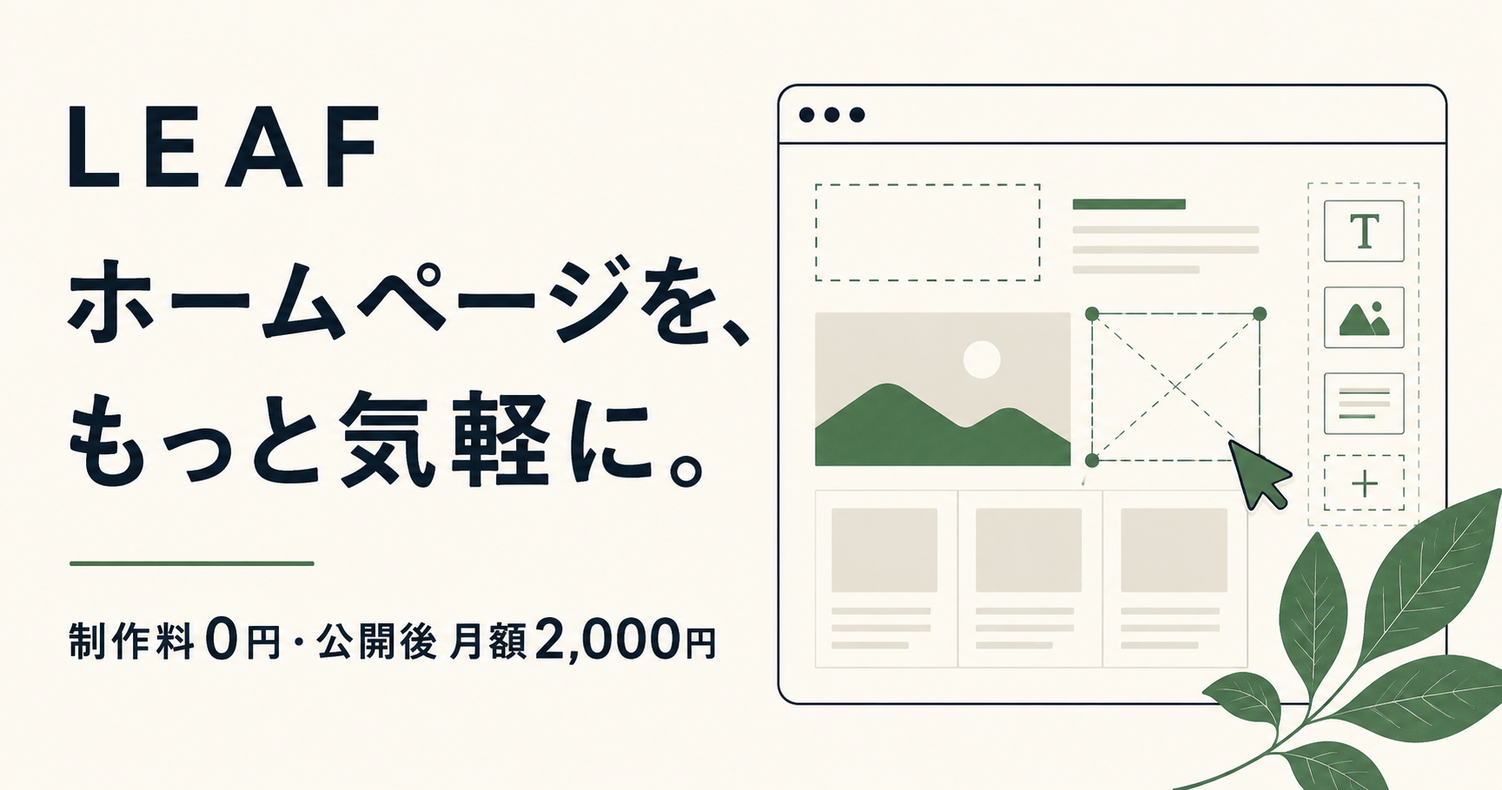
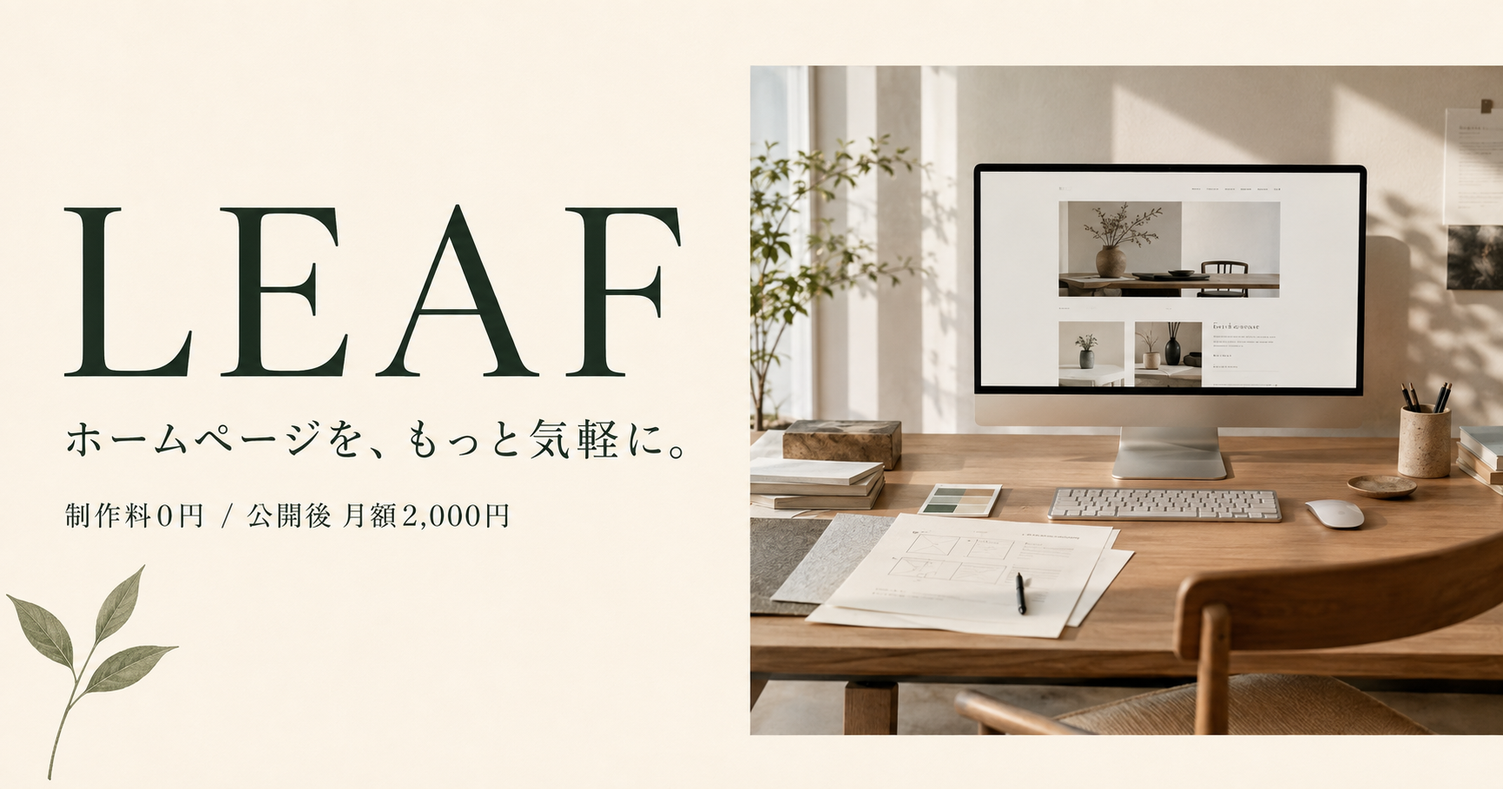
Redesign LEAF and add interactive sample pages

diff --git a/app/globals.css b/app/globals.css
@@ -1,2 +1,2 @@
 @import 'tailwindcss';
-:root{--ink:#101a25;--green:#42d06f;--paper:#f7f7f2;--line:#d9ddd7;--muted:#69727a}*{box-sizing:border-box}html{scroll-behavior:smooth}body{margin:0;background:var(--paper);color:var(--ink);font-family:"Yu Gothic","Hiragino Kaku Gothic ProN",system-ui,sans-serif}a{color:inherit;text-decoration:none}button{font:inherit}main{overflow:hidden}.topbar{position:fixed;z-index:40;inset:0 0 auto;height:72px;display:flex;align-items:center;justify-content:space-between;padding:0 4vw;background:rgba(247,247,242,.92);border-bottom:1px solid var(--line);backdrop-filter:blur(12px)}.logo{font-weight:900;font-size:22px;letter-spacing:-.06em;display:flex;align-items:center;gap:4px}.logo span{width:9px;height:14px;border-radius:9px 1px;background:var(--green);transform:rotate(30deg);display:block}.topbar nav{display:flex;gap:34px;font-size:12px;font-weight:700}.top-cta{background:var(--ink);color:white;padding:13px 18px;font-size:12px}.hero{min-height:1100px;padding:125px 4vw 80px;background:radial-gradient(circle at 78% 20%,rgba(66,208,111,.09),transparent 24%),var(--paper)}.eyebrow{display:flex;justify-content:space-between;border-bottom:1px solid var(--line);padding-bottom:12px;font:10px ui-monospace,monospace;letter-spacing:.12em}.hero-copy{display:flex;justify-content:space-between;align-items:flex-end;margin:68px 0 50px}.hero-copy p{font-size:13px}.hero h1,.quality h2,.reason h2,.sitemap-copy h2,.responsive h2,.after h2,.flow h2,.faq h2,.desk-photo h2{font-size:clamp(50px,7vw,112px);line-height:1.04;letter-spacing:-.07em;margin:0;font-weight:650}.builder-window,.portfolio-browser{border:1px solid #aeb5ae;background:#fff;box-shadow:0 30px 90px rgba(16,26,37,.13)}.window-bar{height:42px;display:grid;grid-template-columns:1fr 2fr 1fr;align-items:center;border-bottom:1px solid var(--line);font:9px ui-monospace,monospace;color:var(--muted);padding:0 15px}.dots{display:flex;gap:6px}.dots i{width:7px;height:7px;border:1px solid #89918a;border-radius:50%}.address{text-align:center}.live-dot{text-align:right;color:#1e7b3c}.live-dot:before{content:"";display:inline-block;width:6px;height:6px;background:var(--green);border-radius:50%;margin-right:7px}.builder-body{display:grid;grid-template-columns:150px 1fr 190px;min-height:570px}.builder-body aside,.inspector{padding:22px;border-right:1px solid var(--line);font:9px ui-monospace,monospace}.builder-body aside b,.inspector>b{display:block;margin-bottom:22px;letter-spacing:.15em}.builder-body aside button{display:block;width:100%;text-align:left;border:0;border-top:1px solid var(--line);background:none;padding:15px 0;font:9px ui-monospace,monospace;color:#7a837c;cursor:pointer}.builder-body aside button span{display:inline-block;width:26px}.builder-body aside button.active{color:var(--ink);font-weight:800}.builder-body aside button.active:after{content:"";float:right;width:7px;height:7px;background:var(--green);border-radius:50%}.canvas{position:relative;background:#e7eae4;padding:54px 5vw;overflow:hidden}.canvas-label{position:absolute;top:18px;left:20px;font:8px ui-monospace,monospace;color:#6d756e}.mini-site{height:100%;background:#fff;border:1px solid #adb4ad;overflow:hidden;transition:.5s}.mini-nav{height:12%;padding:3%;display:flex;align-items:center;gap:9%;border-bottom:1px solid #dce0db}.mini-nav b{margin-right:auto;font:700 10px ui-monospace,monospace}.mini-nav span{width:10%;height:3px;background:#303940}.mini-hero{height:53%;display:grid;grid-template-columns:1fr 1fr;padding:8%;gap:7%;align-items:center}.mini-copy i{display:block;background:#18232d;height:7px;margin:9px 0}.mini-copy i:first-child{height:20px}.mini-photo{height:100%;background:linear-gradient(145deg,#9cae92,#e5e0cd)}.mini-grid{height:25%;display:grid;grid-template-columns:repeat(3,1fr);gap:3%;padding:2% 8%}.mini-grid i{border:1px solid #c3c9c3;background:#f4f4ef}.stage-0 .mini-site,.stage-0 .mini-photo{}.stage-0 *{background-color:transparent!important;background-image:none!important;border-style:dashed!important}.stage-0 .mini-copy i,.stage-0 .mini-nav span{border:1px dashed #7f8a81}.stage-1 .mini-copy i{opacity:0}.stage-1 .mini-nav span{opacity:.25}.phone{position:absolute;right:3%;bottom:5%;width:18%;height:52%;padding:5px;background:#111c26;border-radius:16px;box-shadow:0 16px 40px #0e17245c}.phone .mini-site{border-radius:11px}.phone .mini-hero{grid-template-columns:1fr}.phone .mini-photo{display:none}.inspector{border-left:1px solid var(--line);border-right:0}.inspector dl{margin:0}.inspector dt{margin-top:22px;color:#8a918c}.inspector dd{margin:5px 0;font-weight:700}.green{color:#16813c}.scroll-cue{font:9px ui-monospace,monospace;letter-spacing:.15em;margin:34px auto 0;width:max-content}.scroll-cue span{display:inline-block;width:40px;border-top:1px solid;margin:0 10px 3px 0}.section-num{font:10px ui-monospace,monospace;letter-spacing:.13em;color:#5b655f}.quality{padding:150px 8vw;display:grid;grid-template-columns:1fr 2fr 1fr;gap:4vw;align-items:end}.quality h2{font-size:clamp(44px,6.4vw,96px)}.quality>p:last-child{line-height:2;font-size:14px}.works{display:grid;grid-template-columns:58% 42%;border-top:1px solid var(--line)}.works-preview{height:100vh;position:sticky;top:0;padding:10vh 4vw;background:#e9ece5;align-self:start}.portfolio-browser{height:68vh}.portfolio-screen{height:calc(100% - 42px);padding:7%;display:grid;grid-template-columns:1fr 1.2fr;align-items:center;transition:.5s}.work-title small{display:block;margin-bottom:16px}.work-title strong{font:700 clamp(38px,6vw,88px) Georgia,serif}.work-image{height:90%;display:flex;align-items:end;justify-content:end;padding:20px;background:#34413a}.work-image span{font:11px ui-monospace;color:white}.sand{background:#eee5d7}.sand .work-image{background:#8f6e56}.stone{background:#dad9d5}.stone .work-image{background:#5d625f}.sky{background:#dfeff0}.sky .work-image{background:#608e92}.rose{background:#ede1e0}.rose .work-image{background:#9a7371}.coffee{background:#e2d2bd}.coffee .work-image{background:#513a2b}.portfolio-note{font-size:10px;line-height:1.7;color:#707870;margin-top:20px}.work-list{padding:110px 4vw}.work-list h2{font-size:clamp(35px,4.5vw,65px);letter-spacing:-.06em;margin:30px 0 120px}.work-list article{min-height:48vh;border-top:1px solid var(--line);padding:40px 0;display:grid;grid-template-columns:50px 1fr;align-content:center}.work-list article>span,.work-list em{font:9px ui-monospace,monospace}.work-list h3{font:600 clamp(42px,7vw,90px) Georgia,serif;margin:0}.work-list p{font-size:13px}.work-list em{font-style:normal}.price{background:var(--ink);color:white;padding:140px 6vw}.price .section-num{color:#98a39c}.price-head{display:grid;grid-template-columns:1.3fr 1fr;gap:8vw;align-items:end}.price-head h2{font-size:clamp(48px,7.5vw,112px);line-height:1.05;letter-spacing:-.07em;margin:30px 0 80px}.price-change{display:flex;flex-direction:column;padding-bottom:80px}.price-change span{font-size:12px;color:#9fa9a2}.price-change del{font-size:22px;color:#87918a;margin:14px 0}.price-change strong{font-size:90px;line-height:.8;color:var(--green)}.price-grid{display:grid;grid-template-columns:1fr 1fr 1fr;border-top:1px solid #42505b}.price-grid>div{padding:40px 3vw;border-right:1px solid #42505b;min-height:310px}.price-grid small{font:9px ui-monospace}.price-grid b{display:block;font-size:15px;margin:25px 0}.price-grid strong{display:block;font-size:82px;letter-spacing:-.06em}.price-grid em{font-size:14px;font-style:normal}.price-grid p{font-size:12px;color:#aeb8b1}.included ul{padding:0;list-style:none}.included li{border-top:1px solid #42505b;padding:12px 0;font-size:13px}.reason{padding:170px 7vw;display:grid;grid-template-columns:1.2fr 1fr;gap:10vw}.reason h2{font-size:clamp(45px,6.8vw,98px);margin-top:35px}.reason-copy{padding-top:130px;font-size:15px;line-height:2}.reason-copy .lead{font-size:30px;line-height:1.6;margin-top:100px}.sitemap-section{padding:140px 6vw;background:#e8ebe4;display:grid;grid-template-columns:1fr 1.4fr;gap:8vw}.sitemap-copy h2{font-size:clamp(40px,5vw,70px);margin:35px 0}.sitemap-copy>p:last-child{font-size:13px;line-height:1.9;max-width:420px}.page-count{display:flex;align-items:center;gap:22px;margin:70px 0}.page-count strong{font-size:86px;letter-spacing:-.08em}.page-count span{font:10px/1.7 ui-monospace}.sitemap{display:flex;flex-direction:column;justify-content:center;align-items:center}.root-node,.branches div{border:1px solid #93a098;background:var(--paper);padding:15px 30px;font:11px ui-monospace;text-align:center}.root-node{position:relative;background:var(--ink);color:white}.root-node:after{content:"";position:absolute;height:48px;border-left:1px solid #93a098;left:50%;top:100%}.branches{margin-top:48px;width:100%;display:grid;grid-template-columns:repeat(3,1fr);gap:20px;position:relative}.branches:before{content:"";position:absolute;top:-1px;left:10%;right:10%;border-top:1px solid #93a098}.branches div{position:relative}.branches div:before{content:"";height:20px;border-left:1px solid #93a098;position:absolute;left:50%;bottom:100%}.line-section{padding:150px 6vw}.line-section>h2{font-size:clamp(50px,7vw,100px);letter-spacing:-.07em;margin:35px 0 100px}.production-line article{display:grid;grid-template-columns:1.2fr 1fr;border-top:1px solid var(--line);padding:35px 0;min-height:260px;gap:7vw}.line-visual{background:#e7eae4;border:1px solid #ccd2cc;display:flex;align-items:center;justify-content:center;overflow:hidden}.line-visual span{font:12px ui-monospace;letter-spacing:.1em;animation:pulse 2s infinite}.line-copy{align-self:center}.line-copy small{font:10px ui-monospace;color:#727d76}.line-copy h3{font-size:32px;margin:12px 0}.line-copy p{font-size:13px;line-height:1.9;max-width:480px}.responsive{background:#111b25;color:#fff;min-height:900px;padding:130px 6vw;display:grid;grid-template-columns:1fr 1.4fr;gap:7vw;align-items:center}.responsive .section-num{color:#89938d}.responsive h2{font-size:clamp(45px,5.8vw,80px);margin:35px 0}.responsive-copy>p:last-child{font-size:13px;line-height:2;color:#acb5af}.device-stage{position:relative;height:600px}.desktop-device,.tablet-device,.mobile-device{position:absolute;background:#10171e;padding:8px;border:1px solid #52605a;box-shadow:0 25px 55px #0008}.desktop-device{width:85%;height:62%;top:10%;left:0}.tablet-device{width:42%;height:58%;right:5%;bottom:5%;z-index:2}.mobile-device{width:23%;height:48%;left:12%;bottom:0;z-index:3;border-radius:14px}.device-stage .mini-site{border:0}.after{text-align:center;padding:160px 6vw}.published-mark{font:11px ui-monospace;letter-spacing:.13em}.published-mark span{display:inline-flex;align-items:center;justify-content:center;background:var(--green);width:30px;height:30px;border-radius:50%;margin-right:12px}.after h2{margin:50px 0 120px}.timeline{display:grid;grid-template-columns:repeat(4,1fr);position:relative}.timeline:before{content:"";position:absolute;top:37px;left:10%;right:10%;border-top:1px solid #909a93}.timeline div{display:flex;flex-direction:column;align-items:center;gap:22px}.timeline small{font:10px ui-monospace}.timeline i{width:12px;height:12px;background:var(--paper);border:2px solid var(--green);border-radius:50%;z-index:1}.timeline strong{font-size:14px}.after>p{font-size:11px;color:#6f7972;margin-top:80px}.flow{padding:140px 6vw;background:#e9ece5}.flow h2{margin:35px 0 90px}.flow-grid{display:grid;grid-template-columns:repeat(6,1fr);border-top:1px solid #9ca69f}.flow-grid div{min-height:140px;padding:20px;border-right:1px solid #9ca69f;display:flex;flex-direction:column;justify-content:space-between}.flow-grid span{font:9px ui-monospace}.flow-grid b{font-size:13px}.live-message{text-align:center;font:clamp(28px,5vw,70px) ui-monospace;letter-spacing:-.05em;margin:130px 0 20px}.live-message span{display:inline-block;width:13px;height:13px;border-radius:50%;background:var(--green);margin-left:20px}.campaign{background:var(--ink);color:white;margin:0 3vw;padding:0}.campaign-label{padding:16px 25px;border-bottom:1px solid #4a5560;font:10px ui-monospace;color:var(--green)}.campaign-main{padding:70px 6vw;display:grid;grid-template-columns:1fr 1fr;gap:8vw}.campaign-main p{font-size:13px}.campaign-main>div>strong{display:block;font-size:70px}.campaign-main>div>strong span{font-size:150px;color:var(--green);line-height:.8}.campaign-main small{color:#9aa59f}.campaign-main ul{list-style:none;margin:0;padding:0}.campaign-main li{display:flex;justify-content:space-between;border-top:1px solid #4a5560;padding:18px 0;font-size:13px}.faq{padding:160px 6vw;display:grid;grid-template-columns:.8fr 1.2fr;gap:10vw}.faq h2{font-size:clamp(45px,5vw,76px);margin:35px 0}.faq>div>p:last-child{font-size:13px;line-height:2}.faq details{border-top:1px solid var(--line)}.faq summary{list-style:none;display:grid;grid-template-columns:45px 1fr 30px;align-items:center;padding:23px 0;font-size:14px;cursor:pointer}.faq summary::-webkit-details-marker{display:none}.faq summary span{font:9px ui-monospace}.faq summary b{text-align:right}.faq details[open] summary b{transform:rotate(45deg)}.faq details p{font-size:13px;line-height:1.9;padding:0 30px 25px 45px;color:#59635d}.desk-photo{margin:0 4vw 140px;height:75vh;position:relative;color:white}.desk-photo img{width:100%;height:100%;object-fit:cover;filter:brightness(.7)}.desk-photo>div{position:absolute;left:6%;bottom:10%}.desk-photo p{font:10px ui-monospace;letter-spacing:.15em}.desk-photo h2{font-size:clamp(50px,6vw,90px)}.final-cta{background:var(--green);padding:140px 7vw;text-align:center}.final-cta>p{font:10px ui-monospace;letter-spacing:.15em}.final-cta h2{font-size:clamp(55px,9vw,140px);line-height:.95;letter-spacing:-.08em;margin:50px 0}.cta-summary{display:flex;justify-content:center;gap:45px;margin-bottom:50px;font-size:13px}.final-cta>a{display:flex;margin:auto;max-width:560px;justify-content:space-between;background:var(--ink);color:white;padding:25px 30px;font-size:16px}.final-cta>small{display:block;margin-top:20px}footer{height:180px;padding:50px 4vw;display:grid;grid-template-columns:1fr 1fr 1fr;align-items:center}footer p{text-align:center;font-size:12px}footer small{text-align:right;font:9px ui-monospace}@keyframes pulse{50%{opacity:.35;transform:translateX(8px)}}@media(max-width:800px){.topbar nav{display:none}.top-cta{padding:11px}.hero{padding:105px 18px 60px;min-height:930px}.hero-copy{display:block;margin:55px 0 35px}.hero-copy p{margin-bottom:25px}.hero h1{font-size:48px}.builder-body{grid-template-columns:1fr;min-height:520px}.builder-body aside{display:flex;overflow:auto;border:0;border-bottom:1px solid var(--line);padding:8px}.builder-body aside>b{display:none}.builder-body aside button{min-width:95px;border:0;padding:10px}.inspector{display:none}.canvas{padding:65px 20px 25px}.phone{width:24%}.quality{padding:100px 20px;display:block}.quality h2{margin:35px 0}.works{display:block}.works-preview{height:63vh;top:71px;padding:30px 18px;z-index:2}.portfolio-browser{height:48vh}.portfolio-screen{grid-template-columns:1fr;padding:8%}.work-image{height:130px}.work-list{padding:90px 20px}.work-list h2{margin-bottom:70px}.work-list article{min-height:45vh}.price{padding:100px 20px}.price-head,.price-grid{display:block}.price-head h2{margin-bottom:60px}.price-change{padding-bottom:50px}.price-grid>div{border-right:0;border-bottom:1px solid #42505b}.reason,.sitemap-section,.responsive,.faq{display:block;padding:100px 20px}.reason-copy{padding-top:70px}.sitemap{margin-top:90px}.branches{grid-template-columns:repeat(2,1fr);gap:14px}.line-section{padding:100px 20px}.production-line article{grid-template-columns:1fr;padding:20px 0;gap:25px}.line-visual{min-height:180px}.responsive{min-height:1000px}.device-stage{height:500px;margin-top:60px}.after{padding:110px 20px}.timeline{grid-template-columns:1fr}.timeline:before{top:0;bottom:0;left:50%;right:auto;border-top:0;border-left:1px solid #909a93}.timeline div{background:var(--paper);padding:20px}.flow{padding:100px 20px}.flow-grid{grid-template-columns:repeat(2,1fr)}.campaign{margin:0}.campaign-main{grid-template-columns:1fr;padding:55px 20px}.faq>div+div{margin-top:70px}.desk-photo{margin:0 20px 100px;height:70vh}.final-cta{padding:110px 20px}.cta-summary{flex-direction:column;gap:10px}.final-cta h2{font-size:58px}footer{grid-template-columns:1fr;height:auto;gap:25px;text-align:center}footer p,footer small{text-align:center}}@media(prefers-reduced-motion:reduce){html{scroll-behavior:auto}*,*:before,*:after{animation:none!important;transition:none!important}}
+:root{--ink:#122018;--paper:#f5f3ed;--green:#55b76c;--line:#cfd2c8;--cream:#e9e4d8}*{box-sizing:border-box}html{scroll-behavior:smooth}body{margin:0;background:var(--paper);color:var(--ink);font-family:"Yu Gothic","Hiragino Kaku Gothic ProN",system-ui,sans-serif}a{color:inherit;text-decoration:none}img{display:block;width:100%}.new-site{overflow:hidden}.page-progress{position:fixed;z-index:100;top:0;left:0;height:3px;background:var(--green)}.new-header{position:fixed;z-index:50;top:0;left:0;right:0;height:80px;display:grid;grid-template-columns:1fr auto 1fr;align-items:center;padding:0 3.5vw;background:rgba(245,243,237,.9);backdrop-filter:blur(16px);border-bottom:1px solid rgba(18,32,24,.12)}.brand img{width:110px}.new-header nav{display:flex;gap:34px;font-size:12px}.header-cta{justify-self:end;border-bottom:1px solid;padding-bottom:5px;font-size:12px}.new-hero{min-height:980px;padding:120px 3.5vw 0;position:relative}.hero-image{height:57vh;margin-left:34%;position:relative;overflow:hidden}.hero-image img{height:100%;object-fit:cover;animation:heroFloat 14s ease-in-out infinite alternate}.image-index{position:absolute;right:15px;bottom:12px;background:var(--paper);padding:7px 10px;font:9px ui-monospace,monospace}.hero-main{position:absolute;left:5.5vw;top:190px;z-index:2}.kicker{font-size:13px;margin:0 0 60px 5px}.hero-main h1{font-size:clamp(70px,9vw,140px);line-height:.92;letter-spacing:-.085em;margin:0;font-weight:500}.hero-main h1 i{font-style:normal;color:var(--green)}.hero-bottom{display:flex;align-items:end;gap:13vw;margin:70px 0 0 28vw}.hero-bottom p{font-size:13px;line-height:2}.hero-bottom a{display:flex;flex-direction:column;gap:12px;font-size:11px}.hero-bottom a span{border-bottom:1px solid;padding-bottom:5px}.hero-ribbon{position:absolute;bottom:0;left:0;right:0;height:64px;background:var(--ink);color:#fff;display:flex;justify-content:space-around;align-items:center;font:10px ui-monospace;letter-spacing:.18em}.hero-ribbon span:before{content:"✦";color:var(--green);margin-right:5vw}.intro{padding:180px 6vw 200px;display:grid;grid-template-columns:80px 1fr 2fr;gap:5vw;align-items:start}.sec-no{font:10px ui-monospace;letter-spacing:.15em}.intro>p{font-size:14px;line-height:2}.intro h2,.sample-copy h2,.statement h2,.service h2,.why h2,.new-faq h2{font-size:clamp(45px,6vw,92px);line-height:1.05;letter-spacing:-.07em;margin:0;font-weight:500}.reveal{opacity:0;transform:translateY(50px);transition:opacity 1s,transform 1s}.reveal.seen{opacity:1;transform:none}.sample-showcase{display:grid;grid-template-columns:62% 38%;background:#dfe4dc}.sample-sticky{height:100vh;position:sticky;top:0;padding:9vh 3vw}.browser-frame{height:82vh;background:#fff;border:1px solid #8e9a90;box-shadow:0 30px 70px #1f2e2425}.browser-top{height:42px;display:flex;align-items:center;gap:6px;padding:0 12px;border-bottom:1px solid var(--line);font:9px ui-monospace}.browser-top i{width:7px;height:7px;border:1px solid;border-radius:50%}.browser-top span{margin:auto}.browser-top a{border-bottom:1px solid}.browser-frame iframe{border:0;width:100%;height:calc(100% - 42px);background:white}.sample-copy{padding:120px 3vw 180px}.eyelabel{font:10px ui-monospace;letter-spacing:.14em}.sample-copy h2{font-size:clamp(40px,4.7vw,68px);margin:35px 0}.sample-lead{font-size:13px;line-height:2;margin-bottom:100px}.sample-copy button{width:100%;min-height:260px;border:0;border-top:1px solid #aeb8af;background:none;text-align:left;padding:30px 0;display:grid;grid-template-columns:50px 1fr auto;color:inherit;cursor:pointer;transition:.35s}.sample-copy button:hover,.sample-copy button.active{padding-left:20px;background:rgba(255,255,255,.35)}.sample-copy button>span,.sample-copy button>b,.sample-copy button small{font:9px ui-monospace}.sample-copy button strong{display:block;font:500 clamp(44px,5vw,70px) Georgia,serif;margin:20px 0}.sample-copy button p{font-size:12px}.statement{min-height:900px;position:relative;margin:160px 5vw}.statement>img{width:62%;height:760px;object-fit:cover}.statement>div{position:absolute;right:0;bottom:0;width:48%;background:var(--paper);padding:70px 4vw}.statement h2{font-size:clamp(42px,5.2vw,76px);margin:30px 0}.statement p{font-size:14px;line-height:2}.service{padding:150px 6vw;background:#16231b;color:#fff}.service-head{display:grid;grid-template-columns:90px 1fr;margin-bottom:110px}.service-list{margin-left:28%}.service-list article{display:grid;grid-template-columns:60px 1fr 1.2fr;border-top:1px solid #4d594f;padding:35px 0;align-items:start}.service-list article>span{font:10px ui-monospace;color:var(--green)}.service-list h3{margin:0;font-size:26px;font-weight:500}.service-list p{margin:0;font-size:13px;line-height:2;color:#b9c0ba}.mosaic{height:1100px;position:relative;padding:120px 5vw}.mosaic-a{position:absolute;left:5vw;top:120px;width:57%;height:620px;overflow:hidden}.mosaic-b{position:absolute;right:5vw;bottom:100px;width:37%;height:440px;overflow:hidden}.mosaic img{height:100%;object-fit:cover;transition:transform 1.4s}.mosaic.seen img{transform:scale(1.03)}.mosaic>p{position:absolute;left:13%;bottom:150px;font-size:22px;line-height:1.8}.new-price{padding:150px 6vw;background:var(--cream)}.price-title{display:grid;grid-template-columns:80px 1fr 2fr;align-items:end}.price-title p{font-size:13px;line-height:2}.price-title h2{font-size:clamp(65px,10vw,160px);letter-spacing:-.09em;line-height:.9;margin:0}.price-title h2 span{color:var(--green);font-size:1.4em}.price-table{display:grid;grid-template-columns:repeat(3,1fr);margin-top:100px;border-top:1px solid #aab0a8}.price-table>div{padding:35px 3vw;border-right:1px solid #aab0a8}.price-table small{font-size:11px}.price-table strong{display:block;font-size:28px;margin:35px 0}.price-table p{font-size:11px;color:#667168}.why{padding:180px 7vw;display:grid;grid-template-columns:70px 1.4fr 1fr;gap:5vw}.why h2{font-size:clamp(50px,7vw,100px)}.why>div{padding-top:140px;font-size:14px;line-height:2}.why strong{display:block;font-size:27px;line-height:1.6;margin-top:100px}.new-faq{padding:150px 6vw;display:grid;grid-template-columns:.8fr 1.2fr;gap:10vw;border-top:1px solid var(--line)}.new-faq h2{margin:30px 0}.new-faq>div>p{font-size:13px;line-height:2}.new-faq details{border-top:1px solid var(--line)}.new-faq summary{list-style:none;display:grid;grid-template-columns:45px 1fr 20px;padding:24px 0;cursor:pointer;font-size:14px}.new-faq summary::-webkit-details-marker{display:none}.new-faq summary span{font:9px ui-monospace}.new-faq details p{font-size:13px;line-height:2;padding:0 30px 30px 45px}.new-faq details[open] b{transform:rotate(45deg)}.new-cta{position:relative;text-align:center;padding:160px 4vw;background:var(--green);overflow:hidden}.cta-leaf{position:absolute;left:-3vw;top:-18vw;font:700 70vw/1 Georgia;color:rgba(255,255,255,.13)}.new-cta>p,.new-cta h2,.new-cta a,.new-cta small{position:relative;z-index:1}.new-cta>p{font:11px ui-monospace;letter-spacing:.12em}.new-cta h2{font-size:clamp(55px,8vw,125px);line-height:1;letter-spacing:-.08em;font-weight:500;margin:55px 0}.new-cta a{display:flex;max-width:580px;margin:auto;justify-content:space-between;background:var(--ink);color:#fff;padding:25px 30px}.new-cta small{display:block;margin-top:22px}footer{height:180px;padding:0 4vw;display:grid;grid-template-columns:1fr 1fr 1fr;align-items:center}footer img{width:110px}footer p{text-align:center;font-size:12px}footer small{text-align:right;font:9px ui-monospace}@keyframes heroFloat{to{transform:scale(1.045) translateY(-8px)}}@media(max-width:800px){.new-header{height:68px;grid-template-columns:1fr auto}.new-header nav{display:none}.brand img{width:90px}.new-hero{min-height:850px;padding:90px 18px 0}.hero-image{margin-left:17%;height:53vh}.hero-main{left:20px;top:145px}.kicker{font-size:11px;max-width:250px;margin-bottom:45px}.hero-main h1{font-size:54px}.hero-bottom{margin:300px 0 0;display:block}.hero-bottom a{margin-top:25px}.hero-ribbon span:nth-child(even){display:none}.intro{padding:110px 20px;grid-template-columns:40px 1fr}.intro h2{grid-column:1/-1;margin-top:45px}.sample-showcase{display:block}.sample-sticky{height:62vh;top:68px;padding:25px 14px;background:#dfe4dc;z-index:2}.browser-frame{height:54vh}.sample-copy{padding:90px 20px}.sample-copy button{min-height:210px}.statement{margin:100px 20px;min-height:720px}.statement>img{width:100%;height:520px}.statement>div{width:94%;padding:35px 24px}.service{padding:100px 20px}.service-head{grid-template-columns:40px 1fr}.service-list{margin-left:0}.service-list article{grid-template-columns:45px 1fr}.service-list article p{grid-column:2;margin-top:20px}.mosaic{height:820px;padding:80px 20px}.mosaic-a{left:20px;top:80px;width:82%;height:440px}.mosaic-b{right:20px;bottom:100px;width:48%;height:300px}.mosaic>p{left:30px;bottom:40px;font-size:16px}.new-price{padding:100px 20px}.price-title{display:block}.price-title p{margin:40px 0}.price-title h2{font-size:70px}.price-table{display:block}.price-table>div{border-right:0;border-bottom:1px solid #aab0a8}.why{padding:110px 20px;grid-template-columns:40px 1fr}.why>div{grid-column:2;padding-top:60px}.new-faq{display:block;padding:100px 20px}.new-faq>div+div{margin-top:70px}.new-cta{padding:110px 20px}.new-cta h2{font-size:55px}footer{height:auto;padding:50px 20px;grid-template-columns:1fr;justify-items:center;gap:25px}footer small{text-align:center}}@media(prefers-reduced-motion:reduce){html{scroll-behavior:auto}*,*:before,*:after{animation:none!important;transition:none!important}.reveal{opacity:1;transform:none}}

diff --git a/app/page.tsx b/app/page.tsx
@@ -1,24 +1,27 @@
 'use client';
-
-import { useEffect, useState } from 'react';
-const stages=['WIREFRAME','DESIGN','MOBILE','SEO','PUBLISHED'];
-const works=[['KASANE','和菓子ブランド','sumi','DESIGN / MOBILE'],['nue','インナーウェア','sand','DESIGN / MOTION'],['KITO','建築・設計','stone','DESIGN / MOBILE'],['NICO','動物病院','sky','MOBILE / SEO'],['LUMÉ','ヘアサロン','rose','DESIGN / MOTION'],['CRAFT COFFEE','コーヒーショップ','coffee','DESIGN / MOBILE']];
-const faqs=[['本当に制作料は無料ですか？','はい。今回の先着3名の募集では、ホームページの制作料は0円です。公開後の運用・サポートを月額制にしています。'],['10ページ以上でも無料ですか？','事業内容に必要であれば、10〜20ページ規模にも制作料0円で対応します。ページ構成はヒアリング後に一緒に整理します。'],['月額料金は上がりますか？','ご契約期間中は月額2,000円固定です。契約内容を変更する場合は、必ず事前にご相談します。'],['修正は何回までできますか？','修正の内容や回数の扱いは、作業量を確認して事前にご案内します。まずは希望内容を気軽にご相談ください。'],['ドメイン代・サーバー代は含まれますか？','利用するドメインやサーバーによって条件が異なるため、詳細はヒアリング時にわかりやすくご案内します。'],['解約した場合、サイトはどうなりますか？','データや公開状態の扱いを含め、解約時の条件はご契約前に個別に確認いただける形でご案内します。'],['SEO対策はどこまでですか？','タイトル・説明文・見出し構造・表示速度などの基本SEOを整えます。検索順位を保証するサービスではありません。'],['ネットショップにも対応できますか？','必要な決済・商品管理機能により実現方法が変わります。ご希望を伺い、対応可否と追加条件を個別にお伝えします。']];
-function MiniSite({stage=4,name='LEAF'}:{stage?:number;name?:string}){return <div className={`mini-site stage-${stage}`}><div className="mini-nav"><b>{name}</b><span/><span/><span/></div><div className="mini-hero"><div className="mini-copy"><i/><i/><i/></div><div className="mini-photo"/></div><div className="mini-grid"><i/><i/><i/></div></div>}
-export default function Home(){const[stage,setStage]=useState(0);const[work,setWork]=useState(0);useEffect(()=>{const timer=setInterval(()=>setStage(s=>(s+1)%stages.length),1500);const io=new IntersectionObserver(es=>es.forEach(e=>{if(e.isIntersecting)setWork(Number((e.target as HTMLElement).dataset.index))}),{rootMargin:'-42% 0px -42% 0px'});document.querySelectorAll('[data-index]').forEach(el=>io.observe(el));return()=>{clearInterval(timer);io.disconnect()}},[]);return <main>
-<header className="topbar"><a className="logo" href="#top">LEAF<span/></a><nav><a href="#works">制作実績</a><a href="#price">料金</a><a href="#faq">よくある質問</a></nav><a className="top-cta" href="#contact">無料で相談する ↗</a></header>
-<section className="hero" id="top"><div className="eyebrow"><span>WEB DESIGN STUDIO</span><span>TOKYO / ONLINE</span></div><div className="hero-copy"><p>事業の顔になる一枚を、丁寧につくる。</p><h1>ホームページを、<br/>もっと気軽に。</h1></div><div className="builder-window"><div className="window-bar"><div className="dots"><i/><i/><i/></div><div className="address">leaf.design / preview</div><div className="live-dot">LIVE PREVIEW</div></div><div className="builder-body"><aside><b>BUILD</b>{stages.map((s,i)=><button key={s} className={stage===i?'active':''} onClick={()=>setStage(i)}><span>0{i+1}</span>{s}</button>)}</aside><div className="canvas"><div className="canvas-label">DESKTOP · 1440</div><MiniSite stage={stage}/>{stage>=2&&<div className="phone"><MiniSite stage={stage}/></div>}</div><div className="inspector"><b>STATUS</b><dl><dt>Viewport</dt><dd>{stage>=2?'Responsive':'Desktop'}</dd><dt>SEO</dt><dd className={stage>=3?'green':''}>{stage>=3?'Ready':'Pending'}</dd><dt>Deploy</dt><dd className={stage>=4?'green':''}>{stage>=4?'Published':'Draft'}</dd></dl></div></div></div><div className="scroll-cue"><span/>SCROLL TO BUILD</div></section>
-<section className="quality"><p className="section-num">01 / QUALITY</p><h2>まず、つくれるものを<br/>見てください。</h2><p>価格の前に、品質を。伝わる構成、目に留まるデザイン、スマートフォンでの読みやすさまで、一つずつ設計します。</p></section>
-<section className="works" id="works"><div className="works-preview"><div className="portfolio-browser"><div className="window-bar"><div className="dots"><i/><i/><i/></div><div className="address">portfolio / {works[work][0].toLowerCase()}</div></div><div className={`portfolio-screen ${works[work][2]}`}><div className="work-title"><small>{works[work][1]}</small><strong>{works[work][0]}</strong></div><div className="work-image"><span>0{work+1}</span></div></div></div><p className="portfolio-note">※ 現在は制作表現のサンプルです。公開URLを確認できた実績のみ順次リンクします。</p></div><div className="work-list"><p className="section-num">02 / WORKS</p><h2>実際に、こんなサイトを<br/>作っています。</h2>{works.map((w,i)=><article key={w[0]} data-index={i}><span>0{i+1}</span><div><h3>{w[0]}</h3><p>{w[1]}</p><em>{w[3]}</em></div></article>)}</div></section>
-<section className="price" id="price"><p className="section-num">03 / PRICE</p><div className="price-head"><h2>そして、<br/>制作料は0円です。</h2><div className="price-change"><span>一般的な制作費</span><del>¥300,000〜</del><strong>¥0</strong></div></div><div className="price-grid"><div><small>PRODUCTION</small><b>制作料</b><strong>0<em>円</em></strong></div><div><small>SUPPORT</small><b>公開後</b><strong>2,000<em>円 / 月</em></strong><p>ご契約期間中は固定</p></div><div className="included"><small>INCLUDED</small><ul><li>10〜20ページ対応可能</li><li>スマートフォン対応</li><li>基本SEO対策</li><li>公開作業</li><li>公開後の修正対応</li></ul></div></div></section>
-<section className="reason"><div><p className="section-num">04 / WHY FREE?</p><h2>作ることより、<br/>公開してからを<br/>大切にしたい。</h2></div><div className="reason-copy"><p>ホームページは、公開した日が完成ではありません。</p><p>事業が変われば、伝える言葉も、写真も、サービスの見せ方も変わります。LEAFは最初の制作費ではなく、公開後の更新・修正・改善を支える月額制にしました。</p><p className="lead">作って終わりではなく、<br/>一緒に育てていく。</p></div></section>
-<section className="sitemap-section"><div className="sitemap-copy"><p className="section-num">05 / SCALE</p><h2>小さく始めても、<br/>必要な情報は削らない。</h2><div className="page-count"><strong>10–20</strong><span>PAGE<br/>対応可能</span></div><p>無料だから1ページだけ、ではありません。事業をきちんと理解してもらうために必要なページを整理します。</p></div><div className="sitemap"><div className="root-node">HOME</div><div className="branches">{['サービス','料金','会社案内','採用情報','お知らせ','制作実績','スタッフ','ブログ','アクセス','FAQ','お問い合わせ'].map((x,i)=><div key={x} style={{'--i':i} as React.CSSProperties}>{x}</div>)}</div></div></section>
-<section className="line-section"><p className="section-num">06 / INCLUDED</p><h2>月額に含まれること。</h2><div className="production-line">{[['01','スマホ対応','PCからスマートフォンまで、画面幅に合わせて自然に組み替わります。','DESKTOP → TABLET → MOBILE'],['02','基本SEO','ページごとのタイトルや説明文、検索に伝わりやすい構造を整えます。','title / description / index'],['03','公開作業','最終確認後、公開までの作業をこちらで進めます。','DEPLOYING → LIVE'],['04','公開後修正','文章や写真の変更など、公開後のご相談にも対応します。','「旧しい」 → 「新しい」']].map(([n,t,d,v])=><article key={n}><div className="line-visual"><span>{v}</span></div><div className="line-copy"><small>{n}</small><h3>{t}</h3><p>{d}</p></div></article>)}</div></section>
-<section className="responsive"><div className="responsive-copy"><p className="section-num">07 / RESPONSIVE</p><h2>どの画面でも、<br/>きちんと見やすく。</h2><p>375px・390px・430pxを含むスマートフォン幅でも、文字の大きさ、余白、タップしやすさを確認します。</p></div><div className="device-stage"><div className="desktop-device"><MiniSite/></div><div className="tablet-device"><MiniSite/></div><div className="mobile-device"><MiniSite/></div></div></section>
-<section className="after"><div className="published-mark"><span>✓</span>PUBLISHED</div><h2>公開して終わりでは<br/>ありません。</h2><div className="timeline">{[['1 MONTH','文章の修正'],['3 MONTH','写真の変更'],['6 MONTH','サービス追加'],['12 MONTH','ページ更新']].map(([m,x])=><div key={m}><small>{m}</small><i/><strong>{x}</strong></div>)}</div><p>上記は更新の一例です。実際の対応範囲は内容を確認し、事前にご案内します。</p></section>
-<section className="flow"><p className="section-num">08 / PROCESS</p><h2>ご相談から、公開まで。</h2><div className="flow-grid">{['お問い合わせ','ヒアリング','構成・デザイン','制作','確認・修正','公開'].map((x,i)=><div key={x}><span>0{i+1}</span><b>{x}</b></div>)}</div><div className="live-message">YOUR WEBSITE IS LIVE.<span/></div></section>
-<section className="campaign"><div className="campaign-label">LIMITED OFFER · 3 CLIENTS</div><div className="campaign-main"><div><p>募集枠</p><strong>先着<span>3</span>名</strong><small>申込状況に応じて手動で更新します。</small></div><ul><li><span>制作料</span><b>0円</b></li><li><span>ページ数</span><b>10〜20ページ対応可</b></li><li><span>公開後</span><b>月額2,000円</b></li><li><span>対応</span><b>スマホ・基本SEO・公開後修正</b></li></ul></div></section>
-<section className="faq" id="faq"><div><p className="section-num">09 / FAQ</p><h2>よくあるご質問。</h2><p>まだ決まっていないことも、曖昧なまま契約には進みません。気になる点はすべて事前に確認いただけます。</p></div><div>{faqs.map(([q,a],i)=><details key={q}><summary><span>{String(i+1).padStart(2,'0')}</span>{q}<b>＋</b></summary><p>{a}</p></details>)}</div></section>
-<section className="desk-photo"><img src="/leaf-studio.png" loading="lazy" alt="パソコンとスマートフォンでWebサイトを確認する制作デスク"/><div><p>DESIGN / BUILD / SUPPORT</p><h2>ひとつずつ、<br/>顔の見える制作を。</h2></div></section>
-<section className="final-cta" id="contact"><p>LEAF WEB DESIGN</p><h2>ホームページ、<br/>そろそろ作りませんか。</h2><div className="cta-summary"><span>制作料 0円</span><span>月額 2,000円</span><span>先着3名限定</span></div><a href="#contact-note">無料で制作を相談する <b>↘</b></a><small id="contact-note">相談したからといって、契約する必要はありません。お問い合わせ先は公開前に設定します。</small></section>
-<footer><a className="logo" href="#top">LEAF<span/></a><p>ホームページを、もっと気軽に。</p><small>© 2026 LEAF WEB DESIGN</small></footer></main>}
+import {useEffect,useState} from 'react';
+const samples=[
+ {name:'LUMÉ',kind:'美容室',src:'/samples/lume',note:'光と余白で、サロンの空気まで伝える。'},
+ {name:'KASANE',kind:'和菓子ブランド',src:'/samples/kasane',note:'季節をめぐる、静かなブランド体験。'},
+ {name:'ATELIER',kind:'設計・クラフト',src:'/samples/atelier',note:'素材の手触りから、仕事の丁寧さを伝える。'}
+];
+const faq=[['本当に制作料は無料ですか？','はい。今回の先着3名の募集では制作料は0円です。公開後の運用・サポートを月額制にしています。'],['10ページ以上でも無料ですか？','必要な情報量に応じ、10〜20ページ規模にも対応します。構成はヒアリング後に整理します。'],['月額料金は上がりますか？','ご契約期間中は月額2,000円固定です。契約内容を変える場合は、必ず事前にご相談します。'],['修正回数やサーバー代は？','作業内容、ドメイン、サーバーにより条件が異なるため、ご契約前に個別にわかりやすくご案内します。'],['解約時のサイトの扱いは？','データや公開状態を含む条件を、ご契約前に確認いただける形でご案内します。'],['ネットショップも作れますか？','必要な決済・商品管理機能を伺ったうえで、対応可否と追加条件を個別にお伝えします。']];
+export default function Home(){
+ const[active,setActive]=useState(0);const[progress,setProgress]=useState(0);
+ useEffect(()=>{const onScroll=()=>setProgress(Math.min(100,scrollY/(document.documentElement.scrollHeight-innerHeight)*100));addEventListener('scroll',onScroll,{passive:true});const io=new IntersectionObserver(es=>es.forEach(e=>e.isIntersecting&&e.target.classList.add('seen')),{threshold:.16});document.querySelectorAll('.reveal').forEach(el=>io.observe(el));return()=>{removeEventListener('scroll',onScroll);io.disconnect()}},[]);
+ return <main className="new-site">
+  <div className="page-progress" style={{width:progress+'%'}}/>
+  <header className="new-header"><a className="brand" href="#top"><img src="/leaf-logo.svg" alt="LEAF"/></a><nav><a href="#works">制作例</a><a href="#service">できること</a><a href="#price">料金</a><a href="#faq">FAQ</a></nav><a className="header-cta" href="#contact">制作を相談する</a></header>
+  <section className="new-hero" id="top"><div className="hero-image"><img src="/leaf-hero.png" alt="LEAFのWeb制作デスク"/><span className="image-index">01 — DESIGN DESK</span></div><div className="hero-main"><p className="kicker">小さな事業に、ちゃんと伝わるホームページを。</p><h1>ホームページを、<br/><i>もっと気軽に。</i></h1><div className="hero-bottom"><p>見た目だけではなく、何を、誰に、どう伝えるか。<br/>相談しながら、ひとつずつ形にします。</p><a href="#works"><span>制作例を見る</span>↓</a></div></div><div className="hero-ribbon"><span>DESIGN</span><span>RESPONSIVE</span><span>SEO</span><span>UPDATE</span></div></section>
+  <section className="intro reveal"><span className="sec-no">01</span><p>派手な言葉よりも、<br/>そのお店らしさが伝わること。</p><h2>写真、言葉、余白、動き。<br/>全部をひとつの体験に。</h2></section>
+  <section className="sample-showcase" id="works"><div className="sample-sticky"><div className="browser-frame"><div className="browser-top"><i/><i/><i/><span>leaf / works / {samples[active].name.toLowerCase()}</span><a href={samples[active].src} target="_blank">別ページで開く ↗</a></div><iframe title={samples[active].name+' サンプルサイト'} src={samples[active].src}/></div></div><div className="sample-copy"><p className="eyelabel">実際に触れられる制作サンプル</p><h2>雰囲気だけでなく、<br/>ページとしてつくる。</h2><p className="sample-lead">各サンプルは独立したWebページです。画面の中をスクロールして、写真の見せ方や細かな動きを確かめられます。</p>{samples.map((s,i)=><button key={s.name} className={active===i?'active':''} onClick={()=>setActive(i)}><span>0{i+1}</span><div><small>{s.kind}</small><strong>{s.name}</strong><p>{s.note}</p></div><b>VIEW</b></button>)}</div></section>
+  <section className="statement reveal"><img src="/sample-lume.png" alt="自然光が入る美容室"/><div><span className="sec-no">02</span><h2>スクロールするほど、<br/>少しずつ印象が変わる。</h2><p>大きく動かしすぎず、写真がゆっくり現れたり、言葉の位置が少し変わったり。美容室のサイトのような、心地よく続きを見たくなる動きを取り入れます。</p></div></section>
+  <section className="service" id="service"><div className="service-head reveal"><span className="sec-no">03</span><h2>つくるところから、<br/>育てるところまで。</h2></div><div className="service-list">{[['01','構成とデザイン','お店や事業の魅力を整理し、必要なページと見せ方を組み立てます。'],['02','スマホ対応','375pxから確認し、どの画面でも読みやすく、押しやすく整えます。'],['03','基本SEOと公開','検索に伝わる基本設定を行い、公開作業まで進めます。'],['04','公開後の修正','文章・写真・サービス内容など、公開後の変化にも相談しながら対応します。']].map(x=><article className="reveal" key={x[0]}><span>{x[0]}</span><h3>{x[1]}</h3><p>{x[2]}</p></article>)}</div></section>
+  <section className="mosaic reveal"><div className="mosaic-a"><img src="/sample-craft.png" alt="紙や陶器などの素材を並べた制作風景"/></div><div className="mosaic-b"><img src="/leaf-studio.png" alt="PCとスマートフォンでサイトを確認する様子"/></div><p>ブランドの空気を伝える写真も、<br/>サイトに合わせて一から用意します。</p></section>
+  <section className="new-price" id="price"><div className="price-title reveal"><span className="sec-no">04</span><p>まずは品質を見てほしいから、<br/>価格はここでお伝えします。</p><h2>制作料<span>0</span>円。</h2></div><div className="price-table"><div><small>制作規模</small><strong>10〜20ページ</strong><p>事業に必要な情報量に合わせて設計</p></div><div><small>公開後</small><strong>月額 2,000円</strong><p>ご契約期間中は固定</p></div><div><small>募集</small><strong>先着3名</strong><p>申込状況に応じて手動で更新</p></div></div></section>
+  <section className="why reveal"><span className="sec-no">05</span><h2>作ることより、<br/>公開してからを<br/>大切にしたい。</h2><div><p>ホームページは、公開した日が完成ではありません。</p><p>事業が変われば、言葉も写真も、見せ方も変わります。だからLEAFは最初の制作費ではなく、公開後の更新・修正・改善を支える月額制にしました。</p><strong>作って終わりではなく、<br/>一緒に育てていく。</strong></div></section>
+  <section className="new-faq" id="faq"><div><span className="sec-no">06</span><h2>よくある<br/>ご質問。</h2><p>未確定の条件を曖昧なまま契約には進めません。</p></div><div>{faq.map((x,i)=><details key={x[0]}><summary><span>0{i+1}</span>{x[0]}<b>＋</b></summary><p>{x[1]}</p></details>)}</div></section>
+  <section className="new-cta" id="contact"><div className="cta-leaf">L</div><p>先着3名限定・制作料0円</p><h2>あなたの仕事を、<br/>きちんと伝える場所を。</h2><a href="#contact-note">無料で制作を相談する <span>↗</span></a><small id="contact-note">相談したからといって、契約する必要はありません。お問い合わせ先は公開前に設定します。</small></section>
+  <footer><img src="/leaf-logo.svg" alt="LEAF"/><p>ホームページを、もっと気軽に。</p><small>© 2026 LEAF WEB DESIGN</small></footer>
+ </main>
+}

diff --git a/app/samples/sample.css b/app/samples/sample.css
@@ -1,0 +1,1 @@
+.demo{--accent:#837b69;background:#f5f1e8;color:#292821;font-family:"Yu Mincho","Hiragino Mincho ProN",serif}.demo.lume{--accent:#725b4e}.demo.kasane{--accent:#7c2838;background:#f0eee7}.demo.atelier{--accent:#355140;background:#ecebe5}.demo header{height:72px;position:absolute;z-index:3;top:0;left:0;right:0;display:flex;align-items:center;justify-content:space-between;padding:0 4vw;color:#fff}.demo header b{font:500 20px Georgia;letter-spacing:.15em}.demo header nav{font-size:10px}.demo header>span{display:none}.demo-hero{height:100vh;position:relative;overflow:hidden;color:#fff}.demo-hero:after{content:"";position:absolute;inset:0;background:linear-gradient(90deg,rgba(20,18,14,.5),transparent 70%)}.demo-hero img{height:115%;object-fit:cover;animation:demoDrift 10s ease-in-out infinite alternate}.demo-hero>div{position:absolute;z-index:2;left:8vw;bottom:14vh}.demo-hero small{font:9px ui-monospace;letter-spacing:.2em}.demo-hero h1{font-size:clamp(42px,7vw,90px);line-height:1.15;font-weight:400;letter-spacing:-.04em;margin:25px 0}.demo-hero p{font-size:12px}.demo-hero>i{position:absolute;z-index:2;right:3vw;bottom:4vh;font:8px ui-monospace}.demo-intro{padding:18vh 8vw;display:grid;grid-template-columns:60px 1.4fr 1fr;gap:5vw}.demo-intro>span,.demo-menu small{font:9px ui-monospace}.demo-intro h2,.demo-menu>h2{font-size:clamp(34px,5vw,65px);font-weight:400;margin:0;line-height:1.35}.demo-intro p{font-size:12px;line-height:2.2;padding-top:80px}.demo-image{height:95vh;position:relative;margin:0 5vw;overflow:hidden}.demo-image img{height:115%;object-fit:cover;transition:transform 1.8s}.demo-image.on img{transform:translateY(-7%)}.demo-image p{position:absolute;right:5vw;bottom:6vh;background:rgba(245,241,232,.92);padding:35px;font-size:22px;line-height:1.7}.demo-menu{padding:18vh 8vw}.demo-menu>h2{margin:30px 0 100px}.demo-menu>div{display:grid;grid-template-columns:60px 1fr 1fr;border-top:1px solid #aaa79d;padding:25px 0;font-size:12px}.demo-menu>div>span{font:9px ui-monospace}.demo-menu>div>b{font-size:17px}.demo-menu>div>p{margin:0}.demo footer{height:55vh;background:var(--accent);color:#fff;display:flex;flex-direction:column;align-items:center;justify-content:center}.demo footer h2{font:400 12vw Georgia;margin:0}.demo footer p{font:8px ui-monospace;letter-spacing:.2em}.sample-reveal{opacity:0;transform:translateY(35px);transition:1s}.sample-reveal.on{opacity:1;transform:none}@keyframes demoDrift{to{transform:scale(1.04) translateY(-3%)}}@media(max-width:600px){.demo header nav{display:none}.demo header>span{display:block;font:9px ui-monospace}.demo-hero>div{left:24px;bottom:12vh}.demo-hero h1{font-size:42px}.demo-intro{grid-template-columns:35px 1fr;padding:14vh 24px}.demo-intro p{grid-column:2;padding-top:25px}.demo-image{margin:0 18px;height:75vh}.demo-image p{font-size:16px}.demo-menu{padding:14vh 24px}.demo-menu>div{grid-template-columns:40px 1fr}.demo-menu>div>p{grid-column:2;margin-top:15px}.demo footer{height:45vh}}@media(prefers-reduced-motion:reduce){*{animation:none!important;transition:none!important}.sample-reveal{opacity:1;transform:none}}

diff --git a/app/samples/SampleSite.tsx b/app/samples/SampleSite.tsx
@@ -1,0 +1,9 @@
+'use client';
+import {useEffect} from 'react';
+import './sample.css';
+const content={
+ lume:{name:'LUMÉ',label:'HAIR SALON',hero:'/sample-lume.png',copy:'髪を整えると、\n気持ちも少し整う。',sub:'日々の扱いやすさまで考える、小さなヘアサロン。',tone:'lume'},
+ kasane:{name:'KASANE',label:'季節の和菓子',hero:'/sample-craft.png',copy:'季節を、\nひとつずつ重ねる。',sub:'日本の四季を、小さな和菓子に映して。',tone:'kasane'},
+ atelier:{name:'ATELIER',label:'空間と道具',hero:'/leaf-studio.png',copy:'手で考え、\n場所をつくる。',sub:'素材の性格を読みながら、長く使える空間を。',tone:'atelier'}
+};
+export default function SampleSite({type}:{type:keyof typeof content}){const c=content[type];useEffect(()=>{const io=new IntersectionObserver(es=>es.forEach(e=>e.isIntersecting&&e.target.classList.add('on')),{threshold:.2});document.querySelectorAll('.sample-reveal').forEach(x=>io.observe(x));return()=>io.disconnect()},[]);return <main className={'demo '+c.tone}><header><b>{c.name}</b><nav>私たちについて　　メニュー　　アクセス</nav><span>MENU</span></header><section className="demo-hero"><img src={c.hero} alt=""/><div><small>{c.label}</small><h1>{c.copy.split('\n').map((x,i)=><span key={x}>{x}{i===0&&<br/>}</span>)}</h1><p>{c.sub}</p></div><i>SCROLL</i></section><section className="demo-intro sample-reveal"><span>01</span><h2>いつもの時間を、<br/>少しだけ心地よく。</h2><p>目に見える美しさだけでなく、その先の日常まで考えること。小さな違いを丁寧に重ねます。</p></section><section className="demo-image sample-reveal"><img src={type==='lume'?'/leaf-hero.png':'/sample-craft.png'} alt=""/><p>丁寧につくる。<br/>長く付き合う。</p></section><section className="demo-menu sample-reveal"><small>02 / OUR STANDARD</small><h2>余白の中に、<br/>らしさを残す。</h2><div><span>01</span><b>自然な仕上がり</b><p>毎日の中で無理なく続けられることを大切に。</p></div><div><span>02</span><b>素材を選ぶ</b><p>触れたとき、使ったときの感覚まで確かめます。</p></div><div><span>03</span><b>対話から始める</b><p>先に答えを決めず、話を聞くところから。</p></div></section><footer><h2>{c.name}</h2><p>PORTFOLIO DEMO SITE</p></footer></main>}

diff --git a/app/samples/atelier/page.tsx b/app/samples/atelier/page.tsx
@@ -1,0 +1,1 @@
+import SampleSite from '../SampleSite';export default function Page(){return <SampleSite type="atelier"/>}

diff --git a/app/samples/kasane/page.tsx b/app/samples/kasane/page.tsx
@@ -1,0 +1,1 @@
+import SampleSite from '../SampleSite';export default function Page(){return <SampleSite type="kasane"/>}

diff --git a/app/samples/lume/page.tsx b/app/samples/lume/page.tsx
@@ -1,0 +1,1 @@
+import SampleSite from '../SampleSite';export default function Page(){return <SampleSite type="lume"/>}
